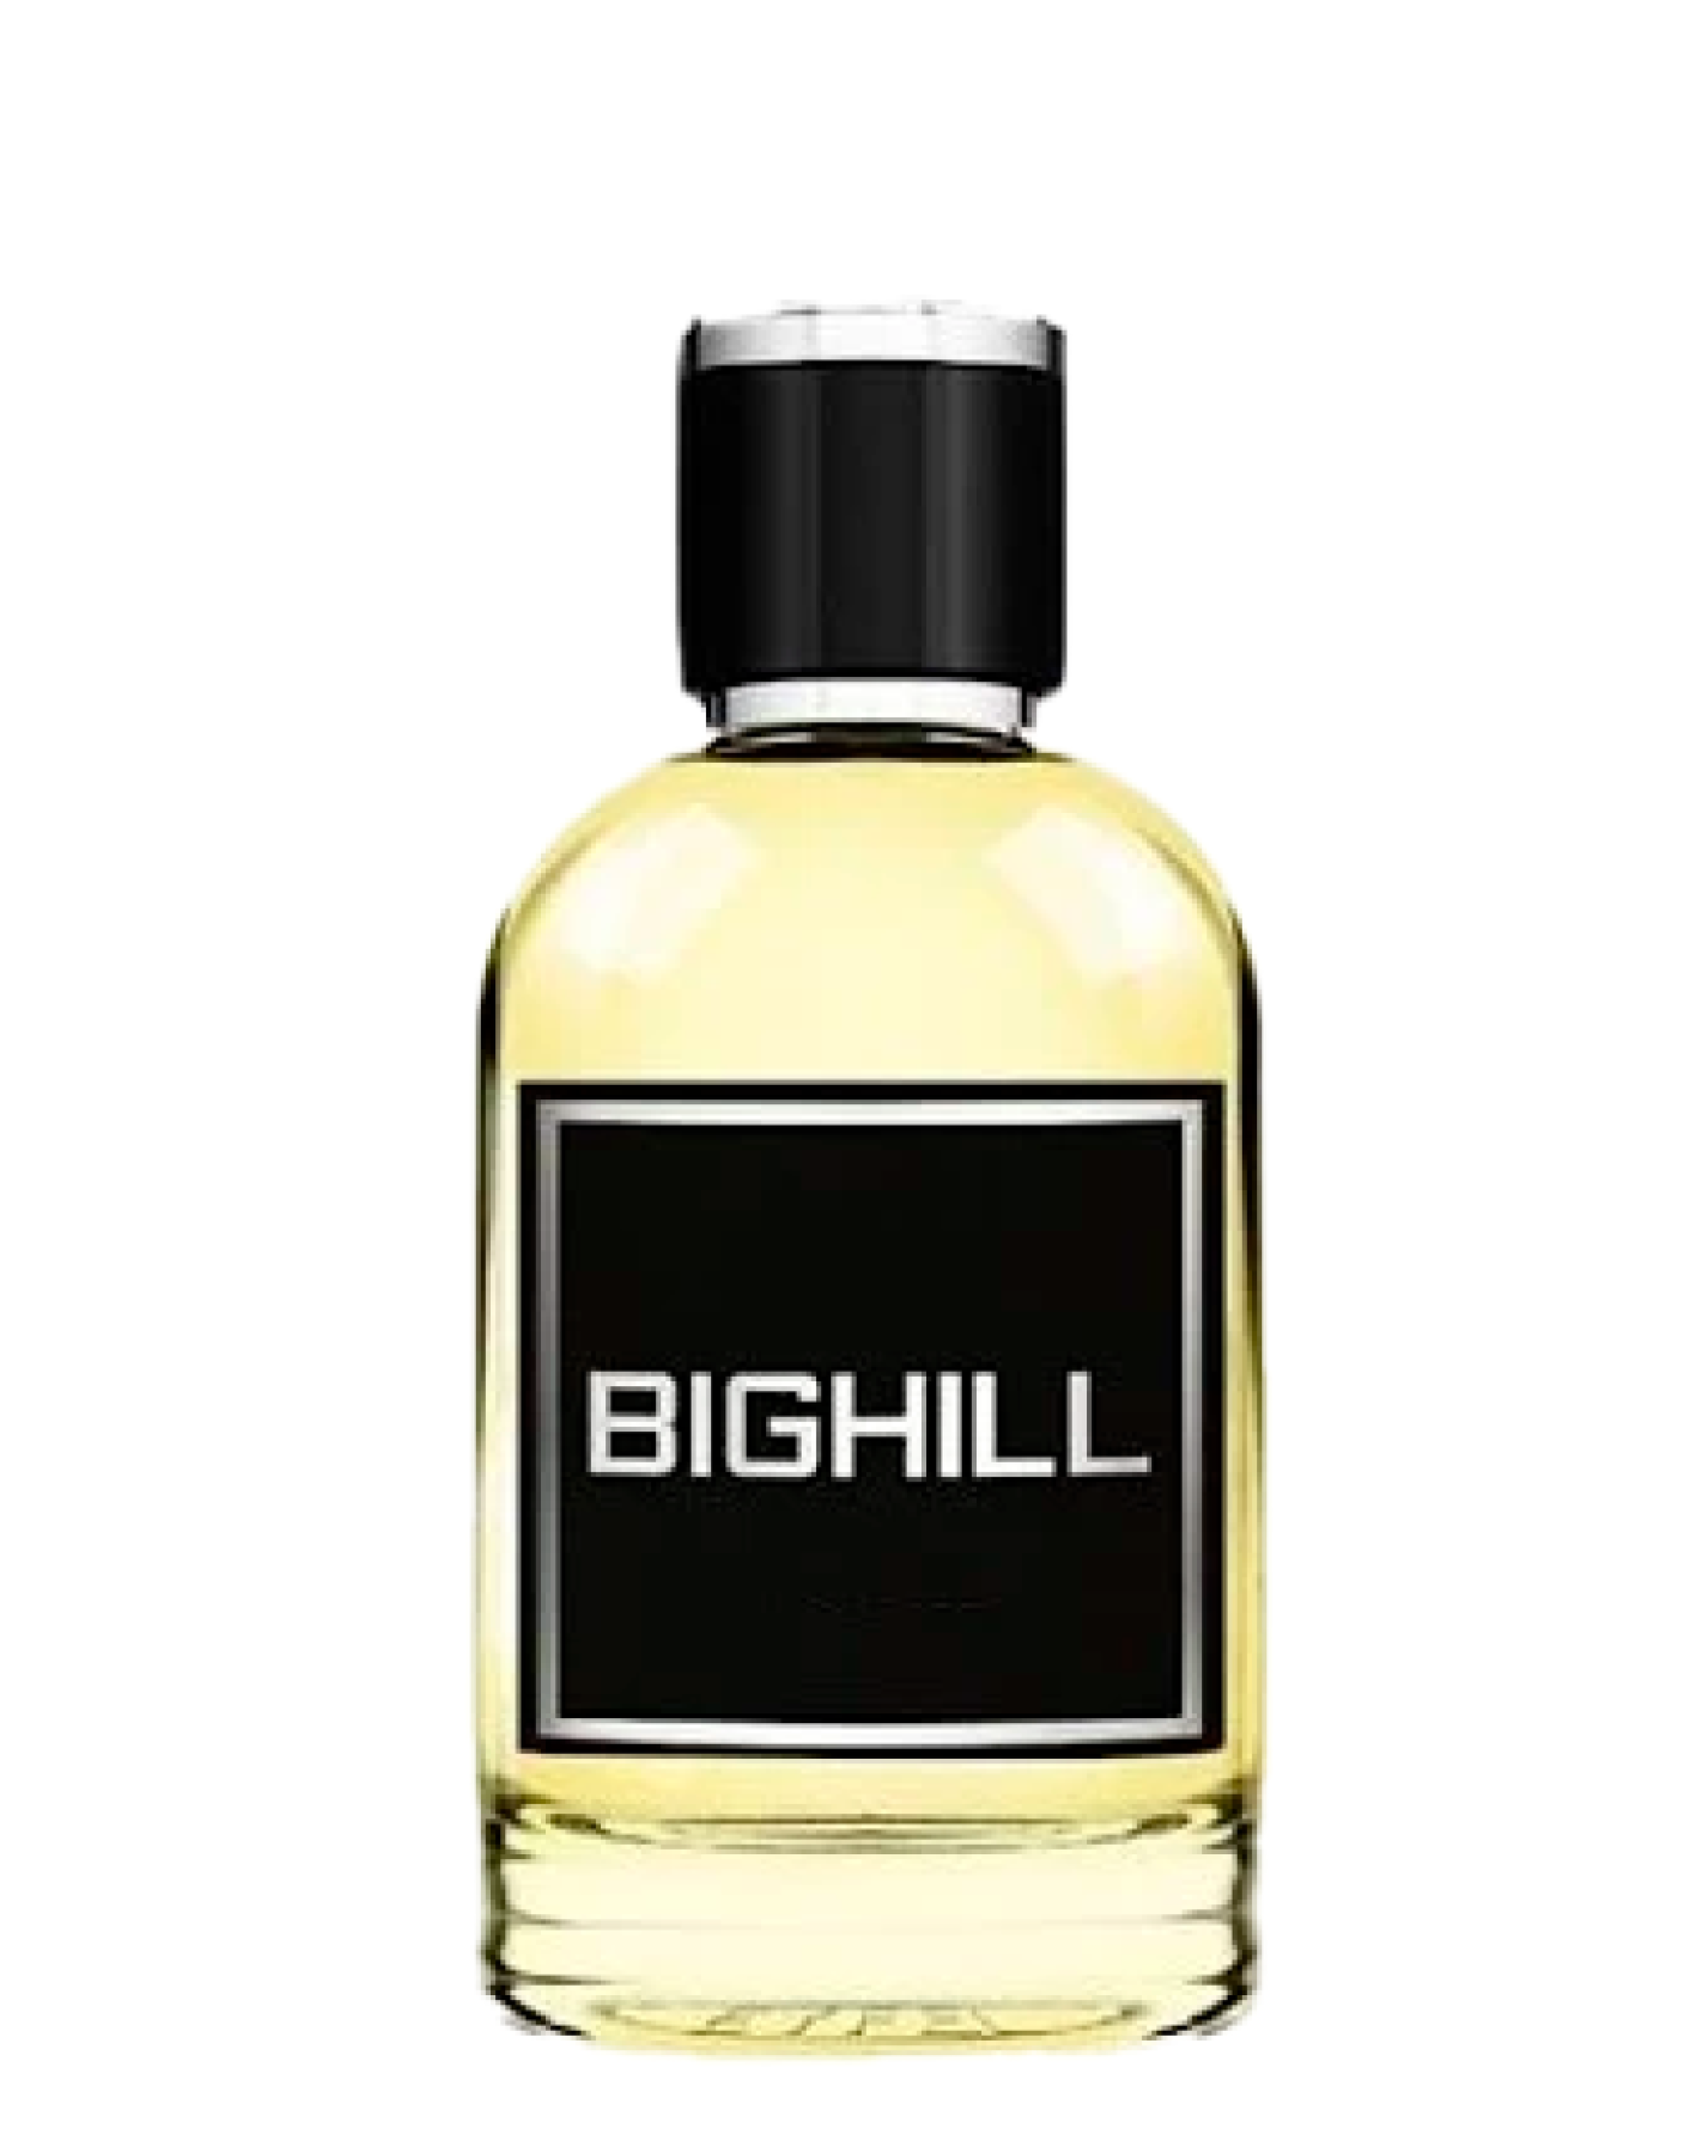
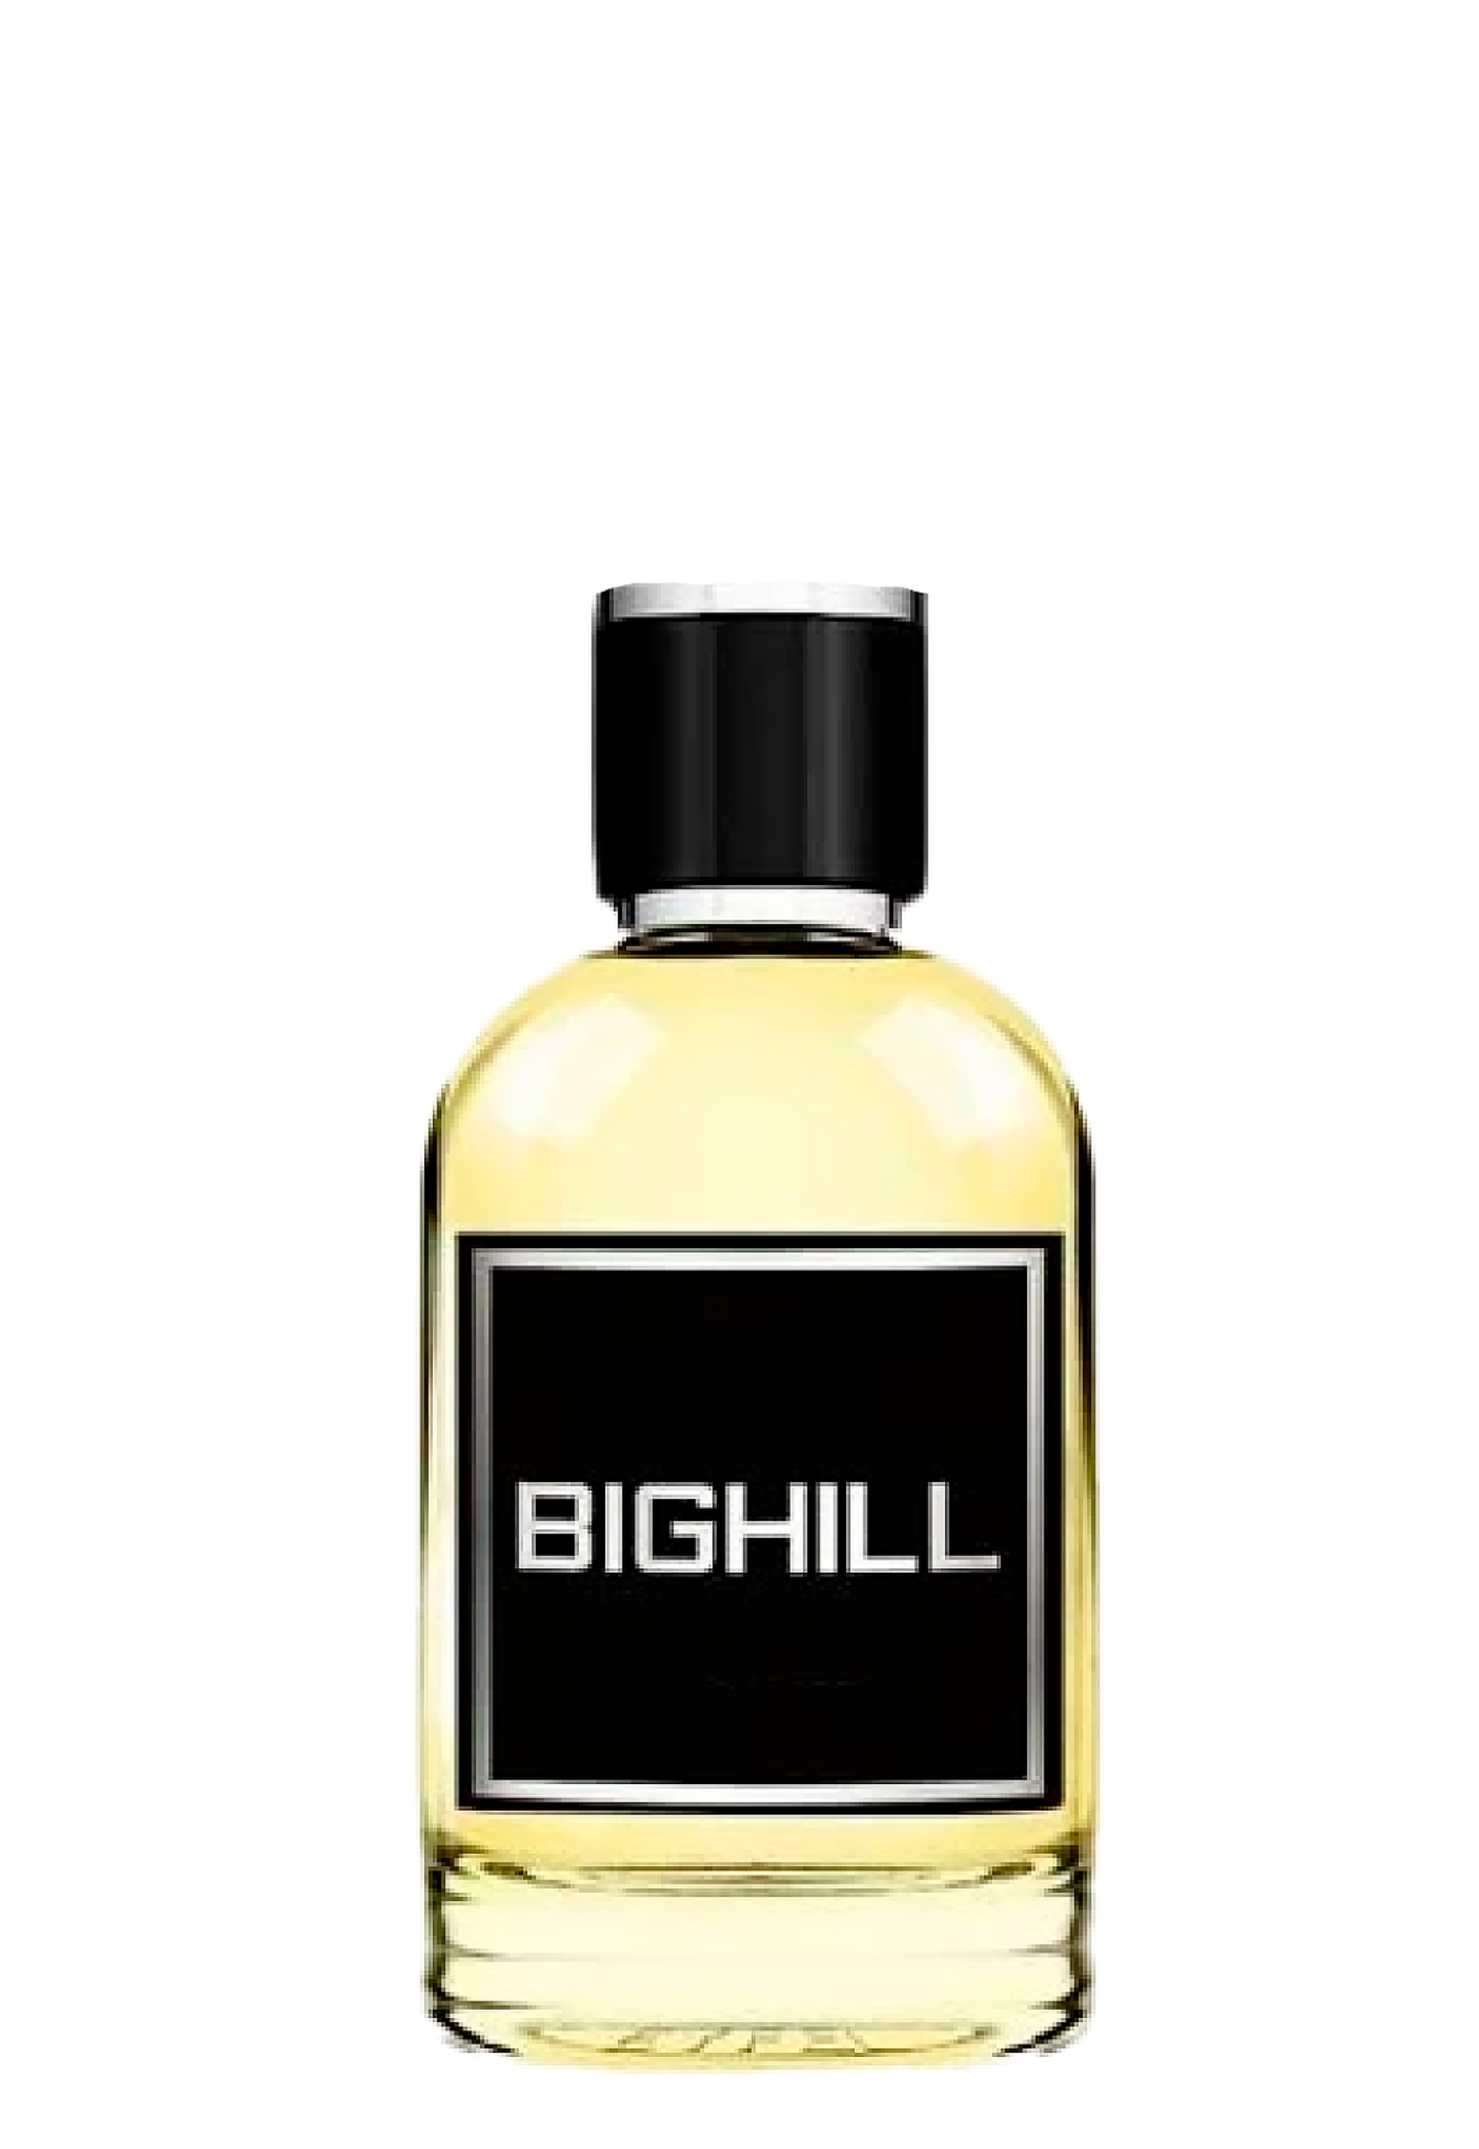
images

Changed region(s): [[0.2494, 0.1246, 0.7482, 0.9656]]

diff --git a/components/content/premium/catalog.vue b/components/content/premium/catalog.vue
@@ -7,7 +7,7 @@
           :key="item"
           title-color="white"
           fluid
-          src="/assets/bighill/parfumBighill.png"
+          src="/assets/bighill/parfum.png"
           bg-src="/assets/gold-bg.png"
           v-bind="item"
           button-type="gold"
@@ -58,7 +58,7 @@ const {premium} = storeToRefs(useProductsStore())
 const {showDescription} = useOrderFlow()
 
 const currentTab = ref<'diffusor' | 'aromat'>('aromat')
-const imageSrcByType = computed(() => currentTab.value === 'diffusor' ? '/assets/bighill/diffusorBighill.png' : '/assets/bighill/parfumBighill.png')
+const imageSrcByType = computed(() => currentTab.value === 'diffusor' ? '/assets/bighill/diffusorBighill.png' : '/assets/bighill/parfum.png')
 useAsyncData(async () => {
   if (premium.value.length) return
 

diff --git a/components/content/Modal/ModalProduct.vue b/components/content/Modal/ModalProduct.vue
@@ -68,6 +68,7 @@ const {isMobile} = useResponsive()
   display: flex;
   flex-direction: column;
   align-items: center;
+  justify-content: center;
   background: black;
   width: 400px;
   @include mobile {
@@ -75,14 +76,20 @@ const {isMobile} = useResponsive()
   }
 }
 .modal_product__image {
-  max-width: 400px;
+  max-width: 350px;
   width: 100%;
 }
 .description {
   margin-top: 30px;
+  height: 200px;
+  overflow: scroll;
   @include mobile {
     max-height: 50vh;
     overflow: scroll;
+  }
+
+  &::-webkit-scrollbar {
+    display: none;
   }
 }
 .type {
